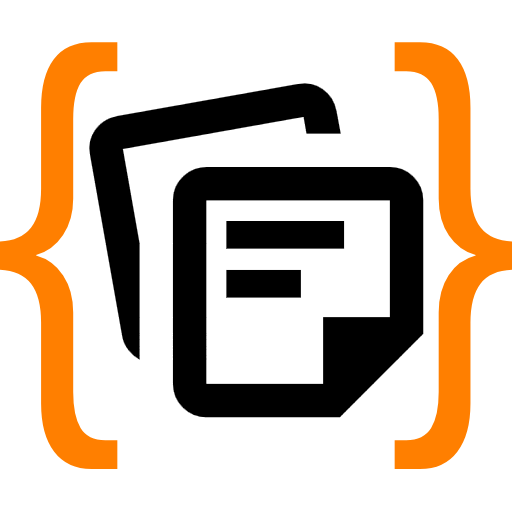
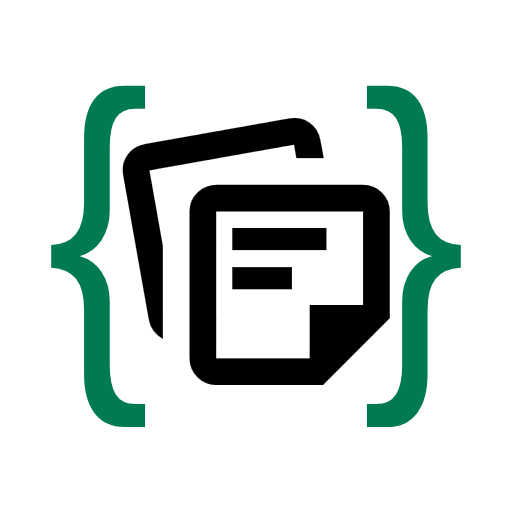
style: switch theme color to jade

diff --git a/docs/conf.py b/docs/conf.py
@@ -108,13 +108,16 @@ from sphinxawesome_theme import ThemeOptions
 
 html_theme = "sphinxawesome_theme"
 html_permalinks_icon = Icons.permalinks_icon
-theme_options = ThemeOptions(show_scrolltop=True)
+theme_options = ThemeOptions(
+    show_scrolltop=True,
+    logo_light="../src/cata_log_hub/web/static/root/favicon.svg",
+    logo_dark="../src/cata_log_hub/web/static/root/favicon_dark.svg"
+)
 html_theme_options = asdict(theme_options)
 
 html_title = "Cata-Log Docs"
 html_short_title = "Cata-Log Docs"
-html_logo = "../src/cata_log_hub/web/static/root/favicon.svg"
-html_favicon = "../src/cata_log_hub/web/static/root/favicon.ico"
+html_favicon = "../src/cata_log_hub/web/static/root/favicon.svg"
 html_static_path = ["_static"]
 html_last_updated_fmt = ""
 html_show_sourcelink = True
